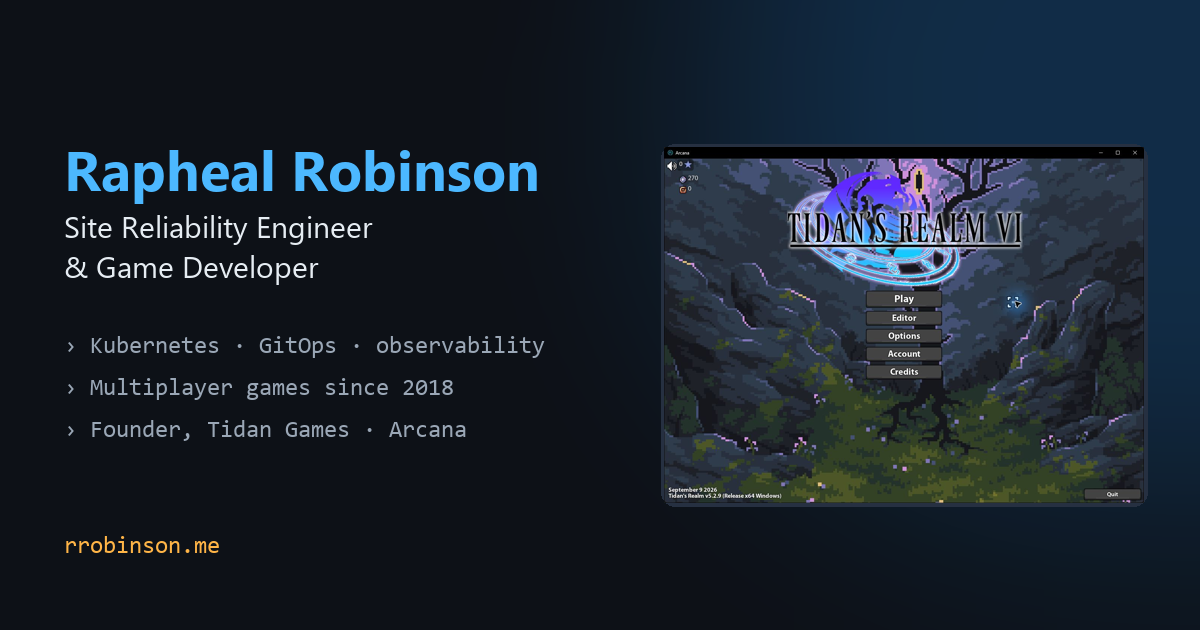
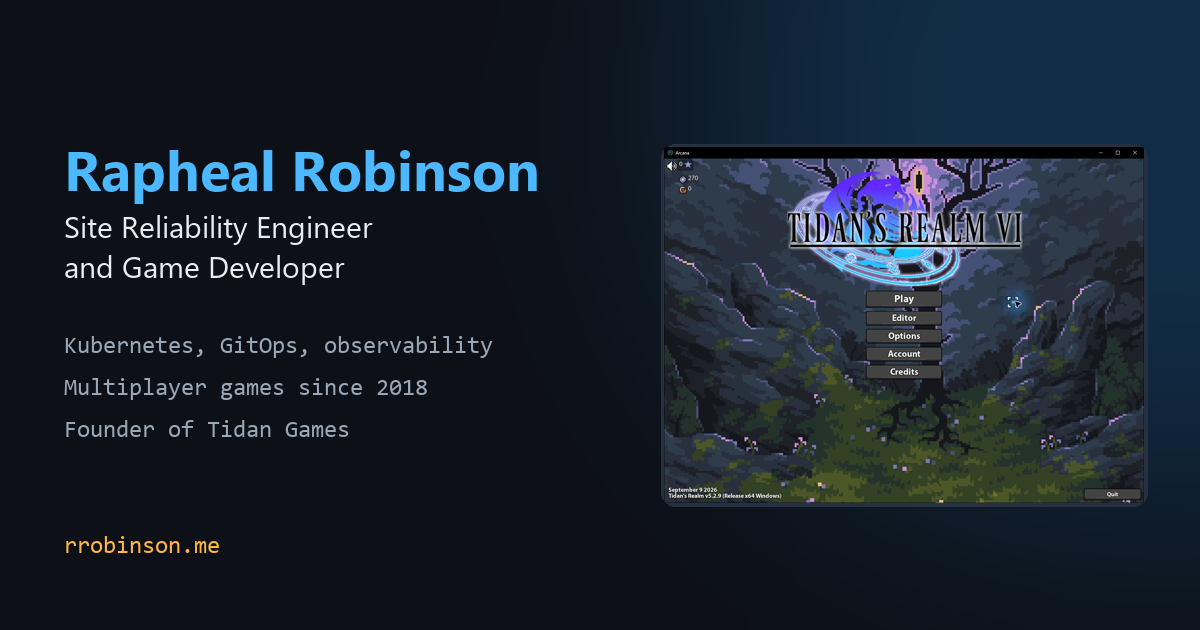
fix: Cosmic Realm video; no em/en dashes or middle dots anywhere

diff --git a/src/styles/global.css b/src/styles/global.css
@@ -289,4 +289,4 @@ p, li { color: var(--text); }
 .vid__thumb img { width: 100%; height: 100%; object-fit: cover; display: block; transition: transform 0.2s ease; }
 .vid:hover .vid__thumb img { transform: scale(1.04); }
 .vid__title { font-weight: 600; font-size: 0.95rem; }
-.contact { text-align: center; margin-top: 48px; color: var(--text-dim); }
+.contact { display: flex; flex-wrap: wrap; justify-content: center; gap: 8px 22px; margin-top: 48px; }

diff --git a/src/site.ts b/src/site.ts
@@ -8,7 +8,7 @@ export const SITE = {
   github: 'https://github.com/jojobobby',
   linkedin: 'https://www.linkedin.com/in/rapheal-robinson-598743167',
   youtube: 'https://www.youtube.com/@RalphOfc',
-  location: 'Chicago area · open to relocation',
+  location: 'Chicago area, open to relocation',
 };
 
 export const NAV = [

diff --git a/src/content/projects/tidan-platform.md b/src/content/projects/tidan-platform.md
@@ -1,7 +1,7 @@
 ---
 title: Tidan Games Platform
 org: Tidan Games LLC
-role: Founder · SRE
+role: Founder, SRE
 dates: Ongoing
 section: studio
 order: 2
@@ -41,7 +41,7 @@ One server, everything defined in Git. Push a change and Argo CD applies it.
     <text x="276" y="36" style="fill:var(--accent);font-weight:700">k3s node: 8 cores, 64 GB</text>
     <rect x="276" y="48" width="448" height="56" rx="8" style="fill:var(--bg-raised);stroke:var(--line)"/>
     <text x="292" y="72" style="fill:var(--text);font-weight:700">Argo CD</text>
-    <text x="292" y="92" style="fill:var(--text-dim);font-size:11.5px">app-of-apps · auto-sync · self-heal · prune</text>
+    <text x="292" y="92" style="fill:var(--text-dim);font-size:11.5px">app-of-apps, auto-sync, self-heal, prune</text>
     <rect x="276" y="300" width="448" height="56" rx="8" style="fill:var(--bg-raised);stroke:var(--line)"/>
     <text x="292" y="324" style="fill:var(--text);font-weight:700">Edge: HAProxy ingress + cert-manager</text>
     <text x="292" y="344" style="fill:var(--text-dim);font-size:11.5px">Let's Encrypt certificates, issued and renewed automatically</text>
@@ -49,7 +49,7 @@ One server, everything defined in Git. Push a change and Argo CD applies it.
     <text x="290" y="140" style="fill:var(--warm);font-weight:700">Workloads</text>
     <text x="290" y="162" style="fill:var(--text);font-size:12px">Arcana prod + dev</text>
     <text x="290" y="180" style="fill:var(--text);font-size:12px">game stores</text>
-    <text x="290" y="198" style="fill:var(--text);font-size:12px">wiki · tasks</text>
+    <text x="290" y="198" style="fill:var(--text);font-size:12px">wiki, tasks</text>
     <text x="290" y="216" style="fill:var(--text);font-size:12px">support desk</text>
     <text x="290" y="234" style="fill:var(--text);font-size:12px">this website</text>
     <rect x="430" y="118" width="140" height="168" rx="8" style="fill:var(--bg-raised);stroke:var(--line)"/>
@@ -61,14 +61,14 @@ One server, everything defined in Git. Push a change and Argo CD applies it.
     <rect x="584" y="118" width="140" height="168" rx="8" style="fill:var(--bg-raised);stroke:var(--line)"/>
     <text x="598" y="140" style="fill:var(--warm);font-weight:700">Operations</text>
     <text x="598" y="162" style="fill:var(--text);font-size:12px">Prometheus</text>
-    <text x="598" y="180" style="fill:var(--text);font-size:12px">Grafana · Loki</text>
+    <text x="598" y="180" style="fill:var(--text);font-size:12px">Grafana, Loki</text>
     <text x="598" y="198" style="fill:var(--text);font-size:12px">mail relay + inbox</text>
     <text x="598" y="216" style="fill:var(--text);font-size:12px">monthly backups</text>
     <text x="598" y="234" style="fill:var(--text);font-size:12px">CI runners</text>
     <text x="500" y="392" text-anchor="middle" style="fill:var(--text-dim);font-size:11.5px">Secrets never live in Git: they are created out of band or read from OpenBao.</text>
   </g>
 </svg>
-<figcaption>Commit to GitHub → Argo CD deploys it.</figcaption>
+<figcaption>Commit to GitHub and Argo CD deploys it.</figcaption>
 </figure>
 
 - **Delivery:** Argo CD, GitHub Actions, self-hosted CI runners, Harbor registry.

diff --git a/src/content/writing/seneca-infrastructure-journey.md b/src/content/writing/seneca-infrastructure-journey.md
@@ -29,7 +29,7 @@ the journal. Reliability on a single host went up immediately.
 **What changed next:** the scope. More projects needed deploying the same way, and the
 deployment configuration needed to live with the code, not on a server.
 
-## 3. A full AWS ECS deployment, driven by CI/CD (Aug 2024 – 2025)
+## 3. A full AWS ECS deployment, driven by CI/CD (Aug 2024 to 2025)
 
 Next came a proper cloud deployment. In August 2024 I set up GitHub Actions to **build and push
 images to ECR for all four of the Business Locator's applications** and deploy them as ECS
@@ -53,7 +53,7 @@ parts a managed cloud hides from you:
 That personal cluster became the blueprint for my studio's infrastructure, the
 [Tidan Games platform](/projects/tidan-platform).
 
-## 5. Seneca Foundation's official cluster (Sep 2025 – 2026)
+## 5. Seneca Foundation's official cluster (Sep 2025 to 2026)
 
 Then I applied all of it to **Seneca Foundation's official Kubernetes cluster**, under the
 supervision of **Harrison**, my boss and training mentor during my apprenticeship. The git
@@ -65,7 +65,7 @@ history shows the build-out:
 | Oct 2025 | The first Seneca apps deployed through it |
 | Jan 2026 | Helm configuration; load balancer and certificates as cluster infrastructure |
 | Feb 2026 | A self-hosted container registry and Sealed Secrets |
-| Feb – Mar 2026 | Ingress: NGINX (F5, then community), then cert-manager with a cluster issuer |
+| Feb to Mar 2026 | Ingress: NGINX (F5, then community), then cert-manager with a cluster issuer |
 | Mar 2026 | PostgreSQL as a chart, with a network policy and a disruption budget |
 | Aug 2026 | Terraform + Ansible provisioning, and a [cost analysis of where to host it](/writing/aws-vs-ovh-k3s-cost-analysis) |
 

diff --git a/src/content/writing/self-hosted-mail-vs-gmail.md b/src/content/writing/self-hosted-mail-vs-gmail.md
@@ -11,7 +11,7 @@ cluster got its own mail system: a send-only relay that signs outgoing mail, and
 server with spam filtering. The first test email bounced. So did the next four. Each rejection
 was a different, precise message, and each one taught me a rule the big providers enforce.
 
-## 1. `550-5.7.1` — no Message-ID
+## 1. `550-5.7.1`: no Message-ID
 
 Gmail rejected the very first message because it had no `Message-ID` header. My backup job
 built the email by hand in Python and only set From, To and Subject. Gmail treats a missing
@@ -24,7 +24,7 @@ msg["Date"] = email.utils.formatdate(localtime=False)
 msg["Message-ID"] = email.utils.make_msgid(domain="tidangames.com")
 ```
 
-## 2. `550-5.7.26` — neither SPF nor DKIM passed
+## 2. `550-5.7.26`: neither SPF nor DKIM passed
 
 With valid headers, the next bounce was about authentication: the domain published no SPF
 record, so Gmail had no evidence the server was allowed to send for it. The relay was already
@@ -45,7 +45,7 @@ The record has to be split into several quoted strings, which receivers join bac
 "v=DKIM1; k=rsa; p=MIIBIjANBgkqh…first 200 chars…" "…the rest of the key…"
 ```
 
-## 4. `504` — need a fully-qualified HELO
+## 4. `504`: need a fully-qualified HELO
 
 Once the relay accepted the job's mail, my own inbox server rejected some senders because they
 introduced themselves with a bare container hostname. Mail servers expect the `HELO`/`EHLO` name

diff --git a/src/content/writing/aws-vs-ovh-k3s-cost-analysis.md b/src/content/writing/aws-vs-ovh-k3s-cost-analysis.md
@@ -2,7 +2,7 @@
 title: 'AWS vs. OVH for a production k3s cluster: a 1-year and 10-year cost analysis'
 date: 2026-08-30
 kind: engineering
-summary: I priced a single-node k3s cluster with 1 TB of storage on AWS and OVHcloud at three tiers. OVH came out 58–87% cheaper, mostly because AWS bills storage and egress by usage.
+summary: I priced a single-node k3s cluster with 1 TB of storage on AWS and OVHcloud at three tiers. OVH came out 58 to 87% cheaper, mostly because AWS bills storage and egress by usage.
 project: vail-sre
 ---
 
@@ -39,7 +39,7 @@ around compute.
 
 | | AWS (usage-based) | OVH (flat-rate) |
 |---|---|---|
-| 1 TB block storage | ~$80/mo (gp3 at $0.08/GB) | included, or ~$10–20/mo on the smallest tier |
+| 1 TB block storage | ~$80/mo (gp3 at $0.08/GB) | included, or ~$10 to $20/mo on the smallest tier |
 | Egress | ~$0.09/GB after the first 100 GB | included, unmetered |
 | Budget | risk of "bill shock" as traffic grows | fixed monthly cost |
 

diff --git a/src/content/projects/arcana.md b/src/content/projects/arcana.md
@@ -1,8 +1,8 @@
 ---
 title: Arcana
 org: Tidan Games LLC
-role: Founder · Lead Engineer & Designer
-dates: 2023 – Present
+role: Founder, Lead Engineer & Designer
+dates: 2023 to Present
 section: studio
 order: 1
 summary: A pixel-art MMORPG. I design it, build it and run it.
@@ -14,7 +14,7 @@ stats:
   - { value: '818', label: 'player accounts' }
   - { value: '2,000+', label: 'of my commits' }
   - { value: '~2,470', label: 'automated tests' }
-  - { value: '200–500', label: 'playtesters' }
+  - { value: '200 to 500', label: 'playtesters' }
 ---
 
 Dungeons, an open overworld, guilds, trading, crafting and PvP. I write the server and the

diff --git a/src/content/projects/cosmic-realm.md b/src/content/projects/cosmic-realm.md
@@ -1,13 +1,14 @@
 ---
 title: Cosmic Realm
 org: Independent
-role: Founder · Lead Developer
-dates: 2018 – 2026
+role: Founder, Lead Developer
+dates: 2018 to 2026
 section: studio
 order: 3
 summary: My first game. Started in 2018 as Tidan's Realm, renamed Cosmic Realm in 2020.
 tech: [C#, ActionScript 3, Adobe AIR, Redis, k3s, Argo CD]
 cover: /media/covers/cosmic-realm.svg
+video: bGHpJcUXNCQ
 coverAlt: "Illustration: a ringed planet in a starfield"
 stats:
   - { value: '3,000', label: 'registered accounts' }

diff --git a/src/content/projects/vail-sre.md b/src/content/projects/vail-sre.md
@@ -1,8 +1,8 @@
 ---
-title: AWS ECS → Kubernetes
+title: AWS ECS to Kubernetes
 org: Vail Systems
 role: SRE Apprentice
-dates: Aug 2024 – Present
+dates: Aug 2024 to Present
 section: professional
 order: 1
 summary: Led the move of production from AWS ECS to self-managed Kubernetes.

diff --git a/src/content/projects/vail-software.md b/src/content/projects/vail-software.md
@@ -2,7 +2,7 @@
 title: Full-Stack Engineering
 org: Vail Systems
 role: Software Engineer Intern
-dates: Mar 2023 – Aug 2024
+dates: Mar 2023 to Aug 2024
 section: professional
 order: 2
 summary: Shipped features weekly in React, Node.js and SQL.

diff --git a/src/content/projects/seneca.md b/src/content/projects/seneca.md
@@ -2,7 +2,7 @@
 title: Software Engineering Apprenticeship
 org: Seneca Foundation
 role: Apprentice
-dates: Jul 2022 – Apr 2023
+dates: Jul 2022 to Apr 2023
 section: earlier
 order: 11
 summary: My first engineering role.
